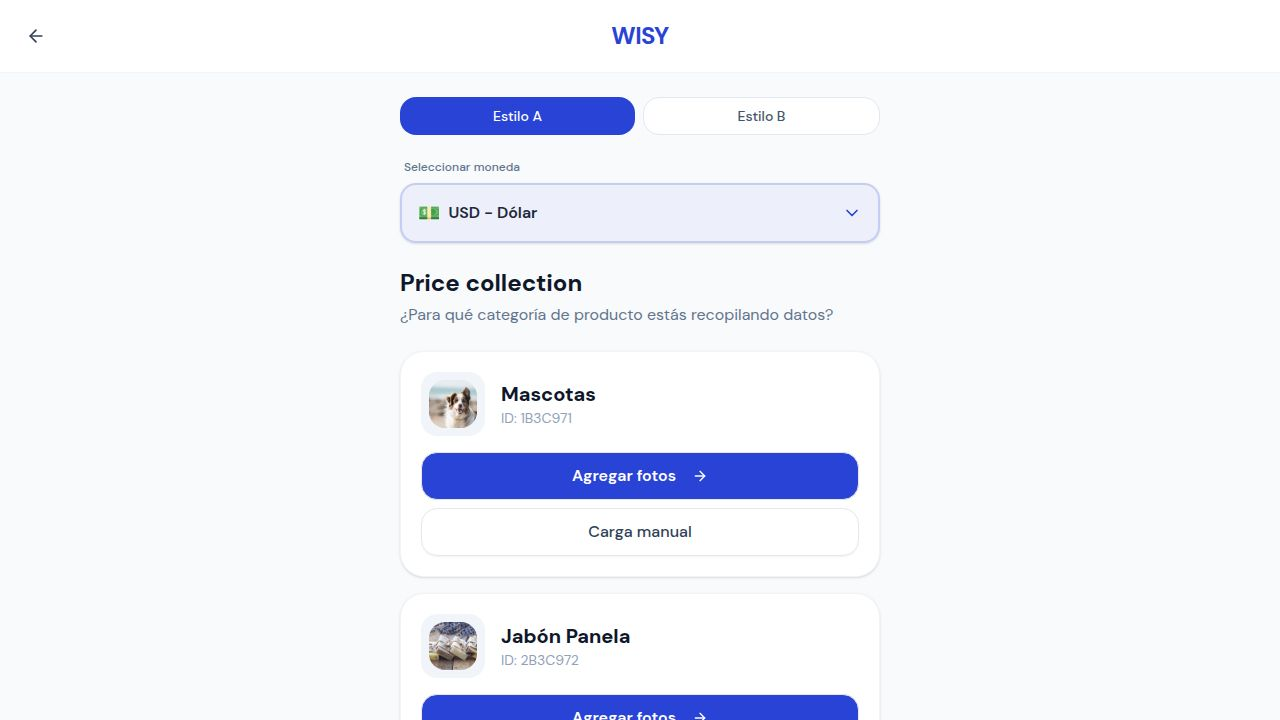
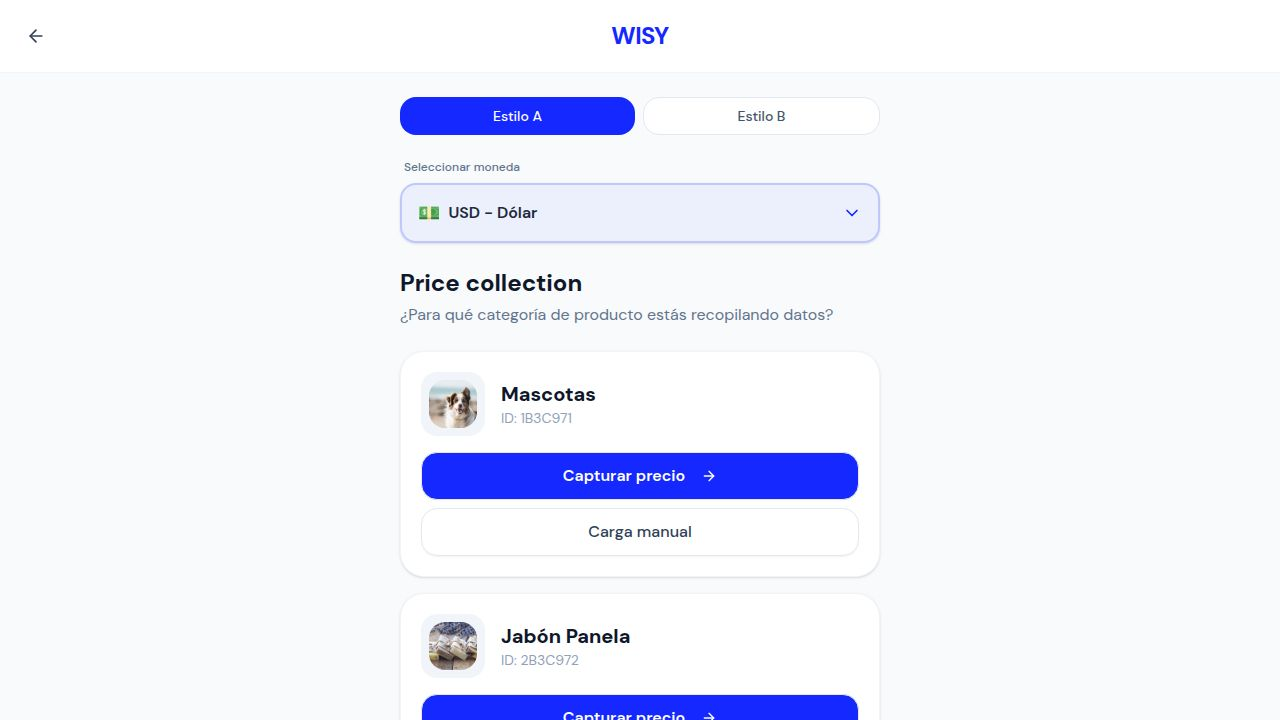
Update camera interface and button text for price capture
Refactor client/src/pages/camera.tsx to redesign the camera interface with new functionality and update the button text in client/src/pages/categories.tsx from "Agregar fotos" to "Capturar precio".

Replit-Commit-Author: Agent
Replit-Commit-Session-Id: e8e32d1c-b162-4c5d-9f42-174eec901f53
Replit-Commit-Checkpoint-Type: full_checkpoint
Replit-Commit-Event-Id: 363fa067-7b68-44fe-9009-4ecf824b9ab9
Replit-Commit-Screenshot-Url: https://storage.googleapis.com/screenshot-production-us-central1/953767e5-1174-45a6-99b9-bfce9b04edd2/e8e32d1c-b162-4c5d-9f42-174eec901f53/jwDv1pt
Replit-Helium-Checkpoint-Created: true

diff --git a/client/src/pages/camera.tsx b/client/src/pages/camera.tsx
@@ -1,115 +1,186 @@
 import { useState } from "react";
 import { useLocation } from "wouter";
 import { motion } from "framer-motion";
-import { ArrowLeft, Settings, Zap, X } from "lucide-react";
+import { X, RotateCcw, Camera, ArrowRight } from "lucide-react";
 import { Button } from "@/components/ui/button";
 
-const capturedImages = [
-  "https://images.unsplash.com/photo-1604719312566-8912e9227c6a?w=100&h=100&fit=crop",
-  "https://images.unsplash.com/photo-1586201375761-83865001e31c?w=100&h=100&fit=crop",
-  "https://images.unsplash.com/photo-1558618666-fcd25c85cd64?w=100&h=100&fit=crop",
+const priceTagImages = [
+  "/price_tag_1.jpg",
+  "/price_tag_2.jpg",
 ];
 
 export default function CameraPage() {
   const [, navigate] = useLocation();
-  const [captures, setCaptures] = useState(capturedImages);
+  const [captures, setCaptures] = useState<string[]>([]);
+  const [currentImage, setCurrentImage] = useState(0);
+  const [showPreview, setShowPreview] = useState(false);
 
   const handleCapture = () => {
-    const newImages = [
-      "https://images.unsplash.com/photo-1604719312566-8912e9227c6a?w=100&h=100&fit=crop",
-      ...captures,
-    ];
-    setCaptures(newImages.slice(0, 6));
+    const newCapture = priceTagImages[captures.length % priceTagImages.length];
+    setCaptures([...captures, newCapture]);
   };
+
+  const handleRemove = (index: number) => {
+    setCaptures(captures.filter((_, i) => i !== index));
+  };
+
+  const handleDone = () => {
+    if (captures.length > 0) {
+      setShowPreview(true);
+    }
+  };
+
+  if (showPreview) {
+    return (
+      <div className="min-h-screen bg-white flex flex-col">
+        <header className="flex items-center justify-between px-4 py-4 border-b border-slate-100">
+          <div>
+            <h1 className="text-xl font-bold text-slate-900">Mascotas</h1>
+            <p className="text-sm text-slate-500">@Default Store</p>
+          </div>
+          <button
+            data-testid="button-close"
+            onClick={() => navigate("/")}
+            className="w-10 h-10 flex items-center justify-center text-primary"
+          >
+            <X className="w-6 h-6" />
+          </button>
+        </header>
+
+        <main className="flex-1 p-4">
+          <div className="relative bg-slate-100 rounded-2xl overflow-hidden mb-4">
+            <img
+              src={captures[currentImage] || captures[0]}
+              alt="Price tag"
+              className="w-full aspect-[4/3] object-cover"
+            />
+            <div className="absolute top-3 right-3 bg-black/60 text-white text-xs font-medium px-2 py-1 rounded-full">
+              {currentImage + 1} / {captures.length}
+            </div>
+          </div>
+
+          <div className="flex gap-2 overflow-x-auto pb-4">
+            {captures.map((img, index) => (
+              <motion.div
+                key={index}
+                initial={{ opacity: 0, scale: 0.8 }}
+                animate={{ opacity: 1, scale: 1 }}
+                className="relative flex-shrink-0"
+              >
+                <button
+                  onClick={() => setCurrentImage(index)}
+                  className={`block rounded-xl overflow-hidden border-2 transition-colors ${
+                    currentImage === index ? "border-primary" : "border-transparent"
+                  }`}
+                >
+                  <img
+                    src={img}
+                    alt={`Captura ${index + 1}`}
+                    data-testid={`img-capture-${index}`}
+                    className="w-16 h-16 object-cover"
+                  />
+                </button>
+                <button
+                  data-testid={`button-remove-capture-${index}`}
+                  onClick={() => handleRemove(index)}
+                  className="absolute -top-1.5 -right-1.5 w-5 h-5 bg-red-500 rounded-full flex items-center justify-center text-white"
+                >
+                  <X className="w-3 h-3" />
+                </button>
+              </motion.div>
+            ))}
+          </div>
+        </main>
+
+        <div className="p-4 border-t border-slate-100">
+          <div className="flex items-center justify-center gap-6 mb-4">
+            <button
+              data-testid="button-retake"
+              onClick={() => setShowPreview(false)}
+              className="w-12 h-12 flex items-center justify-center rounded-full bg-slate-100 text-slate-600"
+            >
+              <RotateCcw className="w-5 h-5" />
+            </button>
+            <button
+              data-testid="button-add-more"
+              onClick={() => setShowPreview(false)}
+              className="w-14 h-14 flex items-center justify-center rounded-full bg-slate-100 text-slate-700"
+            >
+              <Camera className="w-6 h-6" />
+            </button>
+            <Button
+              data-testid="button-continue"
+              onClick={() => navigate("/select-price")}
+              className="h-12 px-8 rounded-full bg-primary hover:bg-primary/90 font-semibold"
+            >
+              Continue
+              <ArrowRight className="w-4 h-4 ml-2" />
+            </Button>
+          </div>
+        </div>
+      </div>
+    );
+  }
 
   return (
     <div className="min-h-screen bg-black flex flex-col">
-      <div className="relative flex-1">
+      <div className="relative flex-1 flex items-center justify-center">
         <div
-          className="absolute inset-0 bg-cover bg-center"
+          className="absolute inset-0 bg-cover bg-center opacity-30"
           style={{
             backgroundImage: `url('https://images.unsplash.com/photo-1604719312566-8912e9227c6a?w=800&h=1200&fit=crop')`,
           }}
         />
-        
-        <div className="absolute inset-0 bg-gradient-to-b from-black/40 via-transparent to-black/60" />
 
-        <div className="absolute top-0 left-0 right-0 flex items-center justify-between p-4 pt-6">
+        <div className="relative z-10 flex flex-col items-center">
           <button
-            data-testid="button-back"
-            onClick={() => navigate("/")}
-            className="w-11 h-11 flex items-center justify-center rounded-full bg-black/30 backdrop-blur-md text-white hover:bg-black/50 transition-colors"
+            data-testid="button-capture"
+            onClick={handleCapture}
+            className="w-20 h-20 rounded-full bg-white/20 border-4 border-white flex items-center justify-center hover:scale-105 transition-transform active:scale-95"
           >
-            <ArrowLeft className="w-5 h-5" />
+            <div className="w-14 h-14 rounded-full bg-white" />
           </button>
           
-          <Button
-            data-testid="button-done"
-            onClick={() => navigate("/assign-product")}
-            className="px-6 h-11 rounded-full bg-primary hover:bg-primary/90 font-semibold"
+          {captures.length > 0 && (
+            <motion.p
+              initial={{ opacity: 0, y: 10 }}
+              animate={{ opacity: 1, y: 0 }}
+              className="mt-4 text-white font-medium"
+            >
+              {captures.length} Photo{captures.length > 1 ? "s" : ""}
+            </motion.p>
+          )}
+        </div>
+
+        {captures.length > 0 && (
+          <motion.div
+            initial={{ opacity: 0, x: -20 }}
+            animate={{ opacity: 1, x: 0 }}
+            className="absolute left-4 bottom-32"
           >
-            Hecho
-          </Button>
-        </div>
-
-        <div className="absolute bottom-0 left-0 right-0 flex flex-col items-center pb-6">
-          <div className="flex items-center justify-center gap-8 mb-8">
             <button
-              data-testid="button-settings"
-              className="w-12 h-12 flex items-center justify-center rounded-full bg-white/20 backdrop-blur-md text-white hover:bg-white/30 transition-colors"
-            >
-              <Settings className="w-5 h-5" />
-            </button>
-            
-            <button
-              data-testid="button-capture"
-              onClick={handleCapture}
-              className="w-20 h-20 rounded-full bg-white flex items-center justify-center hover:scale-105 transition-transform active:scale-95"
-            >
-              <div className="w-16 h-16 rounded-full border-4 border-slate-300" />
-            </button>
-            
-            <button
-              data-testid="button-flash"
-              className="w-12 h-12 flex items-center justify-center rounded-full bg-white/20 backdrop-blur-md text-white hover:bg-white/30 transition-colors"
-            >
-              <Zap className="w-5 h-5" />
-            </button>
-          </div>
-        </div>
-      </div>
-
-      <div className="bg-white rounded-t-3xl p-5 pb-8">
-        <div className="flex items-center justify-between mb-4">
-          <p className="text-slate-700 font-medium">
-            Captura todos los precios de la categoría.
-          </p>
-          <span className="text-primary font-semibold">{captures.length} fotos</span>
-        </div>
-        
-        <div className="flex gap-3 overflow-x-auto pb-2">
-          {captures.map((img, index) => (
-            <motion.div
-              key={index}
-              initial={{ opacity: 0, scale: 0.8 }}
-              animate={{ opacity: 1, scale: 1 }}
-              className="relative flex-shrink-0"
+              onClick={() => setShowPreview(true)}
+              className="w-16 h-16 rounded-xl overflow-hidden border-2 border-white/50"
             >
               <img
-                src={img}
-                alt={`Captura ${index + 1}`}
-                data-testid={`img-capture-${index}`}
-                className="w-20 h-20 rounded-xl object-cover"
+                src={captures[captures.length - 1]}
+                alt="Last capture"
+                className="w-full h-full object-cover"
               />
-              <button
-                data-testid={`button-remove-capture-${index}`}
-                className="absolute -top-2 -right-2 w-6 h-6 bg-red-500 rounded-full flex items-center justify-center text-white hover:bg-red-600 transition-colors"
-              >
-                <X className="w-3.5 h-3.5" />
-              </button>
-            </motion.div>
-          ))}
-        </div>
+            </button>
+          </motion.div>
+        )}
+      </div>
+
+      <div className="p-4 pb-8">
+        <Button
+          data-testid="button-done"
+          onClick={handleDone}
+          disabled={captures.length === 0}
+          className="w-full h-14 rounded-2xl bg-primary hover:bg-primary/90 font-semibold text-lg disabled:opacity-50"
+        >
+          Done
+        </Button>
       </div>
     </div>
   );

diff --git a/client/src/pages/categories.tsx b/client/src/pages/categories.tsx
@@ -155,7 +155,7 @@ export default function CategoriesPage() {
                       onClick={() => navigate("/camera")}
                       className="w-full h-12 rounded-2xl bg-primary hover:bg-primary/90 font-semibold text-base"
                     >
-                      Agregar fotos
+                      Capturar precio
                       <ArrowRight className="w-5 h-5 ml-2" />
                     </Button>
                     <Button
